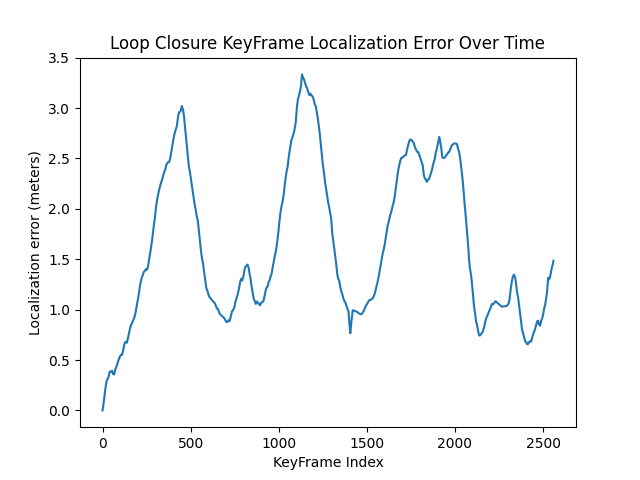
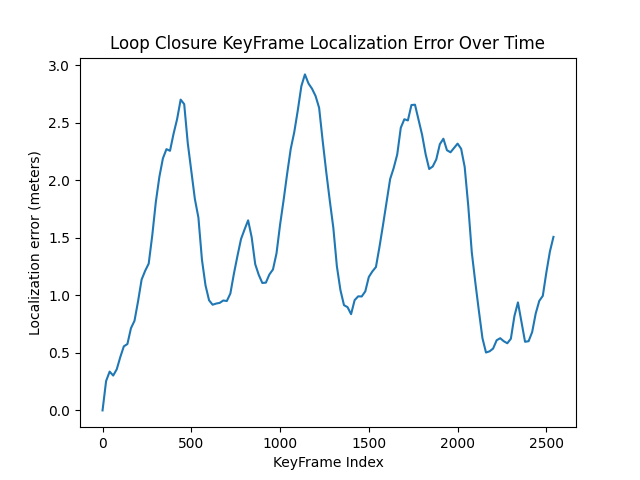
added running version to visualizations

diff --git a/main.py b/main.py
@@ -9,45 +9,47 @@ if __name__ == "__main__":
     random.seed(SEED)
     track_db = TrackDatabase()
     import sys
-
     print("Python version:", sys.version)
+    running_ver = "ver0"
     print("#################### Starting PNP segment ####################")
     pnp_solver = PNP(force_recompute=False)
-    #pnp_solver.show_reprojection_error_for_tracks_at_given_length(length=10)
-    #pnp_solver.get_absolute_estimation_error()
-    #pnp_solver.show_reprojection_error_per_distance(length=20)
     pnp_solver.solve_trajectory()
-    #pnp_solver.get_relative_estimation_error(mode="PNP", path_suffix="pnp", invert_estimated_poses=False)
-    # pnp_solver.get_absolute_localization_error()
-    pnp_cam_pos = pnp_solver.get_final_estimated_trajectory()
-    # pnp_solver.compare_trajectory_to_gt()
+    pnp_solver.compare_trajectory_to_gt(path_suffix=running_ver)
+    pnp_solver.get_absolute_localization_error(path_suffix=running_ver)
+    pnp_solver.get_absolute_estimation_error(path="pnp_absolute_estimation_error" + running_ver, mode="PNP", invert_estimated_poses=False)
+    pnp_solver.get_relative_estimation_error(mode="PNP", path_suffix="pnp" + running_ver, invert_estimated_poses=False)
+    pnp_solver.show_basic_tracking_statistics()
+    pnp_solver.show_num_matches_graph(suffix=running_ver)
+    pnp_solver.show_inliers_ratio_graph(suffix=running_ver)
+    pnp_solver.show_connectivity_graph(suffix=running_ver)
+    pnp_solver.show_track_length_histogram(suffix=running_ver)
+
     print("#################### Starting Bundle Adjustment segment ####################")
     bundle_adjustment_solver = BundleAdjustment(force_recompute=False)
     bundle_adjustment_solver.solve_trajectory()
-    #bundle_adjustment_solver.show_factor_errors_and_reprojection_errors_by_distance(length=15)
-    #bundle_adjustment_solver.get_relative_estimation_error(mode="BUNDLE_ADJUSTMENT", path_suffix="bundle_adjustment", invert_estimated_poses=True)
-    bundle_adjustment_cam_pos = bundle_adjustment_solver.get_final_estimated_trajectory()
-    #bundle_adjustment_solver.get_absolute_localization_error()
-    #bundle_adjustment_solver.compare_trajectory_to_gt()
-    #bundle_adjustment_solver.get_rotation_error()
+    bundle_adjustment_solver.compare_trajectory_to_gt(path_suffix=running_ver)
+    bundle_adjustment_solver.get_absolute_localization_error(path_suffix=running_ver)
+    bundle_adjustment_solver.get_absolute_estimation_error(path="bundle_adjustment_absolute_estimation_error" + running_ver, mode="BUNDLE ADJUSTMENT", invert_estimated_poses=True)
+    bundle_adjustment_solver.get_relative_estimation_error(mode="BUNDLE_ADJUSTMENT", path_suffix="bundle_adjustment" + running_ver,invert_estimated_poses=True)
+    bundle_adjustment_solver.get_mean_factor_error_graph(suffix=running_ver)
+    bundle_adjustment_solver.get_median_factor_error_graph(suffix=running_ver)
+    bundle_adjustment_solver.show_factor_errors_and_reprojection_errors_by_distance(length=15, path_suffix=running_ver)
+
     print("#################### Starting Loop Closure segment ####################")
     loop_closure_solver = LoopClosure(force_recompute=False)
     loop_closure_solver.solve_trajectory()
-    loop_closure_solver.show_uncertainty()
-    loop_closure_solver.show_num_matches_and_inliers_per_lc()
-    loop_closure_solver.get_relative_estimation_error(mode="LOOP_CLOSURE", path_suffix="loop_closure", invert_estimated_poses=True)
-    #loop_closure_cam_pos = loop_closure_solver.get_final_estimated_trajectory()
-    #loop_closure_solver.compare_trajectory_to_gt()
-    #loop_closure_solver.get_absolute_localization_error()
-    # plot_multiple_trajectories(pnp_cam_pos, bundle_adjustment_cam_pos, loop_closure_cam_pos, get_gt_trajectory(),
-    #                            path="plots/all_trajectories_comparison")
-    pnp_solver.get_absolute_estimation_error(path="pnp_absolute_estimation_error", mode="PNP", invert_estimated_poses=False)
-    bundle_adjustment_solver.get_absolute_estimation_error(path="bundle_adjustment_absolute_estimation_error", mode="BUNDLE ADJUSTMENT", invert_estimated_poses=True)
-    loop_closure_solver.get_absolute_estimation_error(path="loop_closure_absolute_estimation_error", mode="LOOP_CLOSURE", invert_estimated_poses=True)
+    loop_closure_solver.show_all_loops_on_trajectory(suffix=running_ver)
+    loop_closure_solver.compare_trajectory_to_gt(path_suffix=running_ver)
+    loop_closure_solver.get_absolute_localization_error(path_suffix=running_ver)
+    loop_closure_solver.get_absolute_estimation_error(path="loop_closure_absolute_estimation_error" + running_ver, mode="LOOP_CLOSURE", invert_estimated_poses=True)
+    loop_closure_solver.get_relative_estimation_error(mode="LOOP_CLOSURE", path_suffix="loop_closure" + running_ver, invert_estimated_poses=True)
+    loop_closure_solver.show_num_matches_and_inliers_per_lc(path_suffix=running_ver)
+    loop_closure_solver.show_uncertainty(path_suffix=running_ver)
+
     key_frames = loop_closure_solver.key_frames
     plot_multiple_trajectories(camera_positions_PNP=pnp_solver.get_final_estimated_trajectory()[key_frames],
                                camera_positions_bundle_adjustment=bundle_adjustment_solver.get_final_estimated_trajectory(),
                                camera_positions_loop_closure=loop_closure_solver.get_final_estimated_trajectory(),
                                gt_camera_positions=get_gt_trajectory()[key_frames],
-                               suffix="")
-    exit(0)
+                               suffix=running_ver)
+    a=5

diff --git a/models/TrajectorySolver.py b/models/TrajectorySolver.py
@@ -234,14 +234,14 @@ class PNP(TrajectorySolver):
         # Display Mean Number of Frame Links
         print(f"Mean Number of Frame Links (number of tracks on an average image): {track_db.get_mean_frame_links()}")
 
-    def show_connectivity_graph(self, path="connectivity_graph", suffix=""):
+    def show_connectivity_graph(self, path="pnp_connectivity_graph", suffix=""):
         from utils.plotters import plot_connectivity_graph
         track_db = self._track_db
         print("Calculating Connectivity Graph and Plotting it...")
         frame_nums, outgoint_tracks_in_frame = track_db.calculate_connectivity_data()
         plot_connectivity_graph(frame_nums, outgoint_tracks_in_frame, path=path + suffix)
 
-    def show_inliers_ratio_graph(self, path="inliers_ratio_graph", suffix=""):
+    def show_inliers_ratio_graph(self, path="pnp_inliers_ratio_graph", suffix=""):
         from utils.plotters import plot_dict
         track_db = self._track_db
         print(f"Getting the Frame to Inliers Ratio Data and Plotting it...")
@@ -249,7 +249,7 @@ class PNP(TrajectorySolver):
         plot_dict(inliers_ratio_dict, x_title='Frame Index', y_title='Inliers Ratio',
                   title='Inliers Ratio Per Frame Index', path=path + suffix)
 
-    def show_num_matches_graph(self, path="num_matches_graph", suffix=""):
+    def show_num_matches_graph(self, path="pnp_num_matches_graph", suffix=""):
         from utils.plotters import plot_dict
         track_db = self._track_db
         print(f"Getting the Frame to Num Matches Data and Plotting it...")
@@ -257,7 +257,7 @@ class PNP(TrajectorySolver):
         plot_dict(num_matches_dict, x_title='Frame Index', y_title='Num Matches',
                   title='Num Matches Per Frame Index', path=path + suffix)
 
-    def show_track_length_histogram(self, path="track_length_histogram", suffix=""):
+    def show_track_length_histogram(self, path="pnp_track_length_histogram", suffix=""):
         from utils.plotters import gen_hist
         track_db = self._track_db
         print(f"Getting the Track Length Data and Plotting it...")
@@ -742,15 +742,15 @@ class LoopClosure(TrajectorySolver):
         from utils.plotters import plot_trajectory_with_loops
         if trajectory is None:
             trajectory = self._final_estimated_trajectory if self._final_estimated_trajectory is not None else self._initial_trajectory
-        plot_trajectory_with_loops(trajectory, self._successful_lc, path=f"plots/lc_{suffix}_")
+        plot_trajectory_with_loops(trajectory, self._successful_lc, path_suffix=suffix)
 
     def show_given_loops_on_trajectory(self, given_loops, trajectory=None, suffix="given_loops"):
         from utils.plotters import plot_trajectory_with_loops
         if trajectory is None:
             trajectory = self._final_estimated_trajectory if self._final_estimated_trajectory is not None else self._initial_trajectory
-        plot_trajectory_with_loops(trajectory, given_loops, path=f"plots/lc_{suffix}_")
+        plot_trajectory_with_loops(trajectory, given_loops, path_suffix=suffix)
 
-    def show_num_matches_and_inliers_per_lc(self):
+    def show_num_matches_and_inliers_per_lc(self, path_suffix=""):
         from utils.plotters import plot_lc_inlier_ratio_and_md
         lc_stats_dict = self.get_lc_statistics()
         lc_stats = list(lc_stats_dict.values())
@@ -758,7 +758,7 @@ class LoopClosure(TrajectorySolver):
         m_dists = np.array([lc_stat[0] for lc_stat in lc_stats])
         num_matches = np.array([lc_stat[1] for lc_stat in lc_stats])
         inlier_ratios = np.array([lc_stat[2] for lc_stat in lc_stats])
-        plot_lc_inlier_ratio_and_md(m_dists, num_matches, inlier_ratios, path_suffix="")
+        plot_lc_inlier_ratio_and_md(m_dists, num_matches, inlier_ratios, path_suffix=path_suffix)
         return
 
     def serialize(self, path=PATH_TO_SAVE_LOOP_CLOSURE_RESULTS):

diff --git a/utils/plotters.py b/utils/plotters.py
@@ -232,7 +232,7 @@ def draw_matching_images(first, second, key_frames, path="lc_compare_images"):
     plt.savefig(f"plots/{path}_{first}_{second}")
 
 
-def plot_trajectory_with_loops(camera_positions, loop_closures, path="plots/"):
+def plot_trajectory_with_loops(camera_positions, loop_closures, path="traj_with_all_loop_closures_", path_suffix=""):
     firsts = [lc[0] for lc in loop_closures]
     seconds = [lc[1] for lc in loop_closures]
     plt.figure()
@@ -246,7 +246,7 @@ def plot_trajectory_with_loops(camera_positions, loop_closures, path="plots/"):
     plt.ylabel("Z")
     plt.title(f"our trajectory with all loop closures")
     plt.legend()
-    plt.savefig(path + f"traj_with_all_loop_closures")
+    plt.savefig(f"plots/{path}" + path_suffix)
 
 
 def plot_uncertainty_over_time(keyframes, uncertainty_score, path="", title_suffix="", loop_closures_frames=None, kind="Total"):
